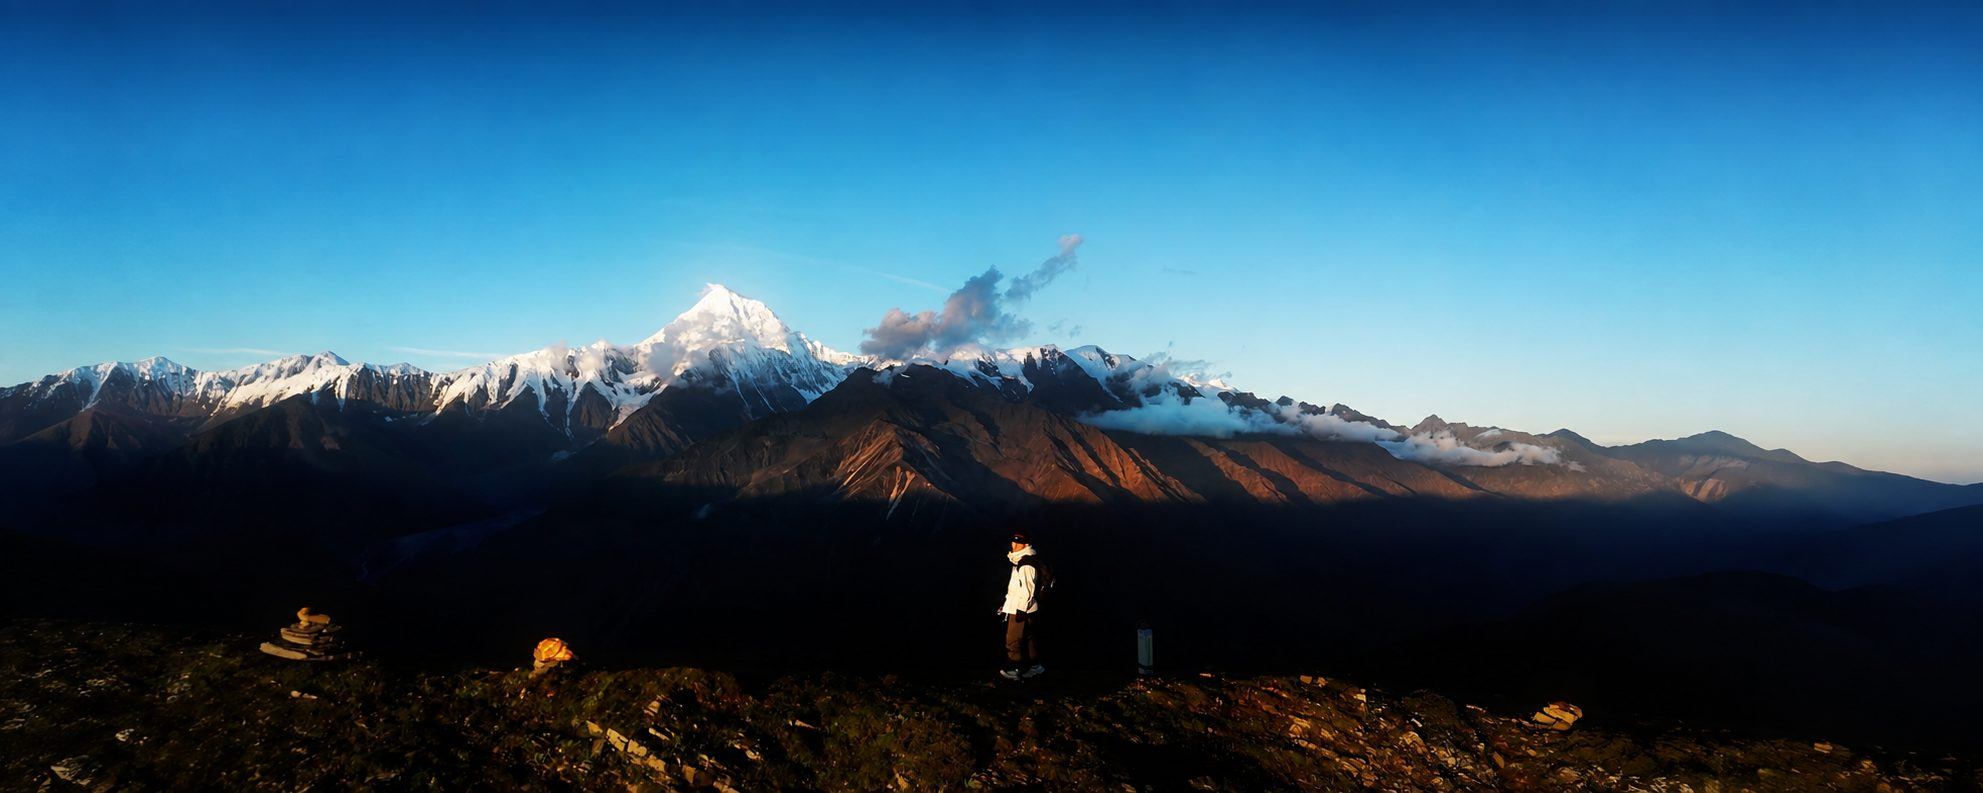
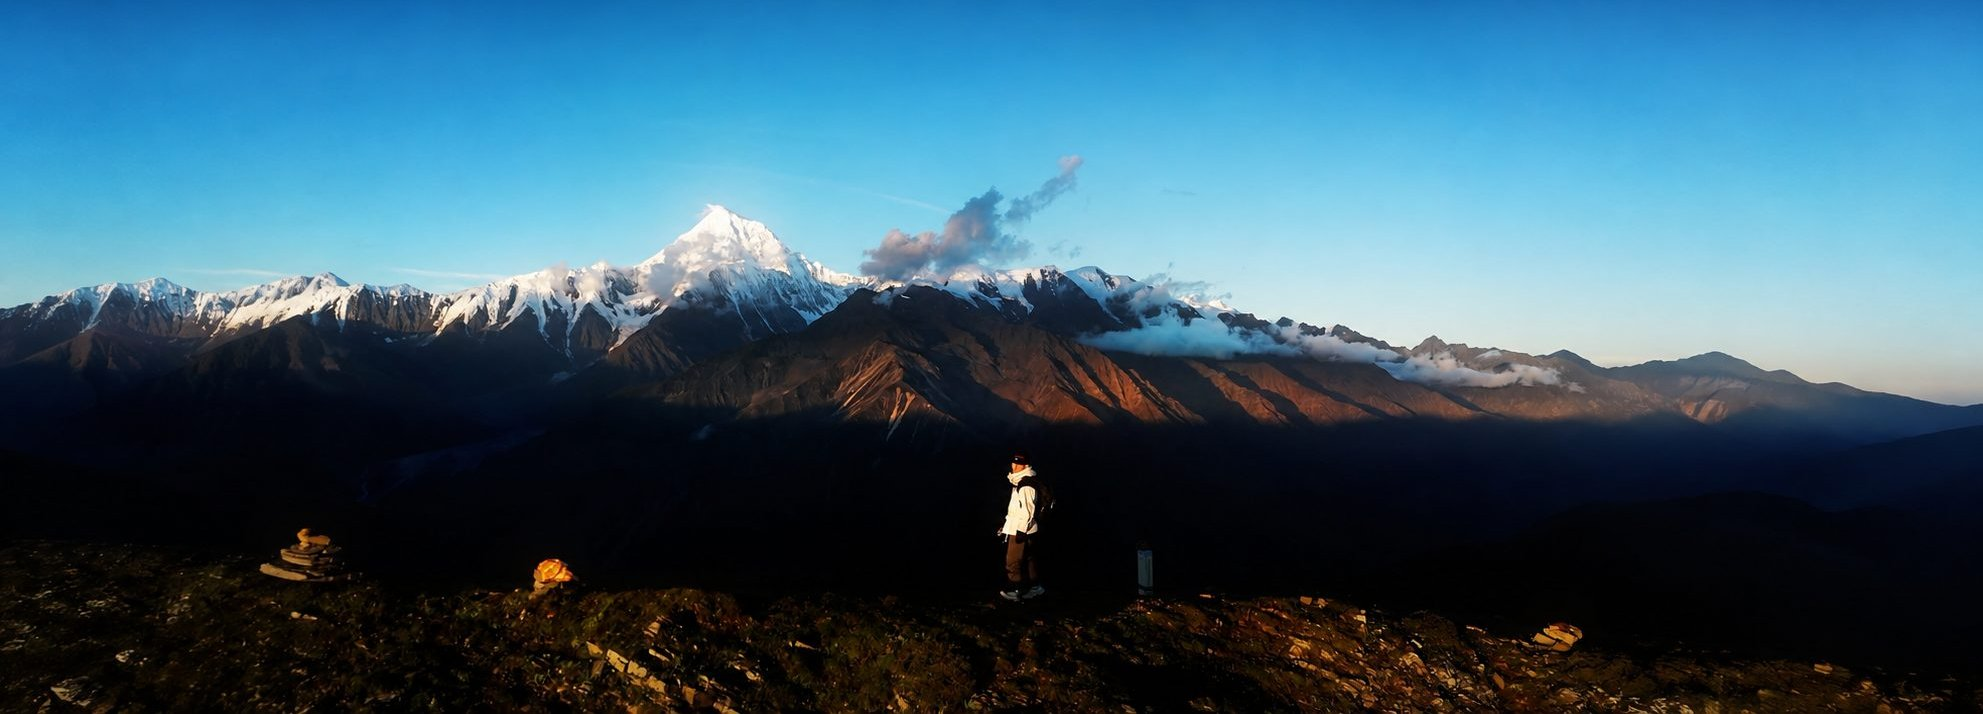
Crop the top 10% off the hero background photo
bg.jpg was 1983x793 with the top ~25% pure empty sky. Cropping 79px
makes it 1983x714, which changes the cover scale from 0.984 to 1.092
and lifts the snow band from y=234-429 to y~174-390. With the bio card
at y=327 that takes the main peak from ~60% visible to ~95%.

Re-encoded at q85 to keep the file near its original weight
(135KB -> 139KB). The uncropped original is in git history.

diff --git a/index.html b/index.html
@@ -231,8 +231,9 @@
       border-radius: 1px;
     }
     .hero-bio-wrap {
-      /* Puts the card top at y=327 (rule bottom 211 + this margin), which
-         leaves the peak in images/bg.jpg clear. Tune this one number. */
+      /* Card top lands at y=327 (rule bottom 211 + this margin). bg.jpg has
+         its top 10% cropped away, which parks the snow band at y~174-390,
+         so the peak stays clear of the card. Tune this one number. */
       margin: clamp(48px, 11vh, 116px) 0 0;
       transition: opacity 0.7s var(--ease-out-expo);
     }
